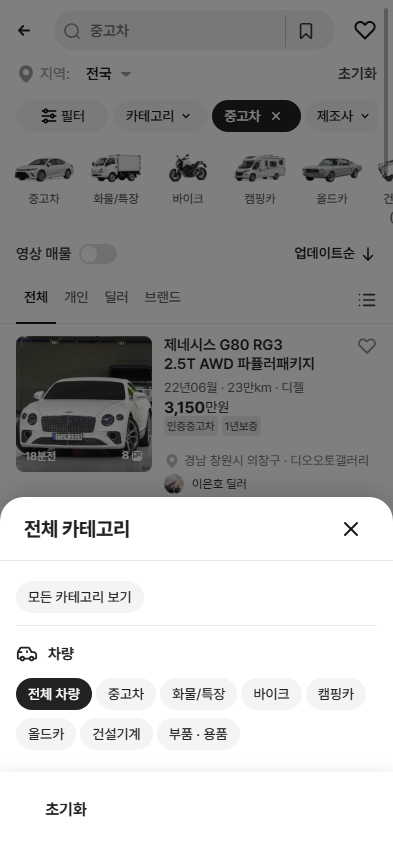
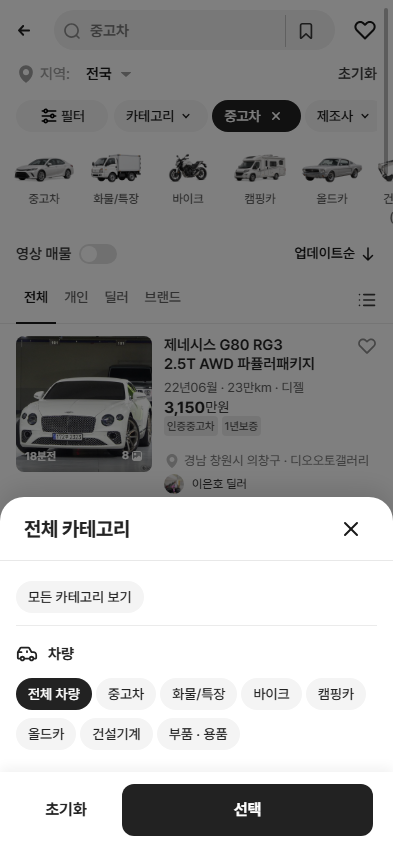
fix:add-category-sheet-confirm-action

Changed region(s): [[0.3053, 0.9155, 0.9466, 1.0]]

diff --git a/src/prototype/listing/index.tsx b/src/prototype/listing/index.tsx
@@ -532,6 +532,7 @@ function MarketplaceScreen() {
   // QF-091: 과쯔(개발 시안형) 모바일 전체 필터 화면과 그 안의 항목 시트
   const [bbmFullOpen, setBbmFullOpen] = useState(() => initialAutohomeMakerSheetPreview());
   const [bbmCategoryOpen, setBbmCategoryOpen] = useState(false);
+  const [bbmCategoryDraft, setBbmCategoryDraft] = useState(() => initialFilters.category);
   const [bbmFullItem, setBbmFullItem] = useState<BbmFilterItem | "카테고리" | "제조사 · 모델" | null>(() => initialAutohomeMakerSheetPreview() ? "제조사 · 모델" : null);
   const [bbmMakerDraft, setBbmMakerDraft] = useState<string | null>(() => initialAutohomeMakerSheetPreview() ? initialFilters.maker : null);
   const [bbmKeepSearch, setBbmKeepSearch] = useState(false);
@@ -1596,6 +1597,7 @@ function MarketplaceScreen() {
       label: "카테고리",
       active: false,
       onClick: () => {
+        setBbmCategoryDraft(category);
         setBbmCategoryOpen(true);
       },
     },
@@ -1995,8 +1997,8 @@ function MarketplaceScreen() {
         <BbmBottomGnb onNotify={setSearchToast} />
         {bbmMenu === "m-sort" ? <BbmSheet title="정렬" flush onClose={() => setBbmMenu(null)}><BbmPopOptions options={bbmSortOptions} selected={bbmSort} onSelect={chooseBbmSort} /></BbmSheet> : null}
         {bbmMenu === "m-view" ? <BbmSheet title="리스트 필터" flush onClose={() => setBbmMenu(null)}><BbmPopOptions options={bbmViewOptionsMobile} selected={bbmMobileView} onSelect={chooseBbmView} /></BbmSheet> : null}
-        {bbmCategoryOpen ? <BbmSheet variant="category" title="전체 카테고리" onClose={() => setBbmCategoryOpen(false)} footer={<div className="bbmf-category-footer"><button type="button" onClick={() => { chooseVehicleCategory("전체"); setBbmCategoryOpen(false); }}>초기화</button></div>}>
-          <BbmCategoryPicker selected={category} onViewAll={() => setSearchToast("전체 카테고리에서 차량 그룹을 보고 있어요.")} onChoose={(label) => { chooseVehicleCategory(label); setBbmCategoryOpen(false); }} />
+        {bbmCategoryOpen ? <BbmSheet variant="category" title="전체 카테고리" onClose={() => setBbmCategoryOpen(false)} footer={<div className="bbmf-category-footer"><button type="button" onClick={() => setBbmCategoryDraft("전체")}>초기화</button><button type="button" className="bbmf-category-confirm" onClick={() => { chooseVehicleCategory(bbmCategoryDraft); setBbmCategoryOpen(false); }}>선택</button></div>}>
+          <BbmCategoryPicker selected={bbmCategoryDraft} onViewAll={() => setSearchToast("전체 카테고리에서 차량 그룹을 보고 있어요.")} onChoose={setBbmCategoryDraft} />
         </BbmSheet> : null}
         {bbmFullOpen ? (
           <BbmFullFilter

diff --git a/src/prototype/filters/bbm-filter-parts.css b/src/prototype/filters/bbm-filter-parts.css
@@ -508,9 +508,11 @@
 .bbm-category-picker__pills { display:flex; flex-wrap:wrap; gap:8px 4px; margin-top:8px; }
 .bbm-category-picker__pills button { min-height:32px; padding:6px 12px; border:0; border-radius:9999px; background:#f4f4f4; color:#222; font-family:inherit; font-size:14px; font-weight:500; line-height:20px; cursor:pointer; }
 .bbm-category-picker__pills button.is-selected { background:#222; color:#fff; }
-.bbmf-category-footer { display:flex; flex:none; align-items:flex-start; height:80px; padding:12px 20px 16px; box-sizing:border-box; background:#fff; box-shadow:0 -4px 12px rgba(0,0,0,.06); }
+.bbmf-category-footer { display:flex; flex:none; align-items:flex-start; gap:10px; height:80px; padding:12px 20px 16px; box-sizing:border-box; background:#fff; box-shadow:0 -4px 12px rgba(0,0,0,.06); }
 .bbmf-category-footer button { width:92px; height:52px; padding:0; border:0; border-radius:12px; background:transparent; color:#222; font-family:inherit; font-size:16px; font-weight:700; line-height:22px; cursor:pointer; }
 .bbmf-category-footer button:hover { background:#f4f4f4; }
+.bbmf-category-footer .bbmf-category-confirm { flex:1 1 auto; width:auto; min-width:0; background:#222; color:#fff; }
+.bbmf-category-footer .bbmf-category-confirm:hover { background:#111; }
 /* 모바일 시트 체크 목록: 매물 수는 오른쪽 끝(12px 500 #9E9E9E) */
 .bbmf-sheet:not(.is-modal-body) .bbmf-check .bbmf-check-label { flex: 1; }
 .bbmf-sheet:not(.is-modal-body) .bbmf-check .bbmf-check-count { font-size: 12px; line-height: 16.8px; }

diff --git a/HANDOVER_assets_v19.md b/HANDOVER_assets_v19.md
@@ -1,0 +1,53 @@
+# HANDOVER_assets_v19
+
+## 1) 담당 범위
+
+- 카테고리 바텀시트에 확정 주행거리 시트와 같은 하단 선택 버튼 구조 적용
+
+## 2) 현재 진행 상태
+
+### 완료
+
+- 초기화 92×52px와 선택 나머지 폭×52px 구성
+- 카테고리 임시 선택 후 선택 버튼에서 목록 확정
+- 자동 수치 측정, 선택 전후 동작 점검, 빌드 통과
+
+### 진행 중
+
+- 없음
+
+### 미착수
+
+- 없음
+
+## 3) 결정된 사항과 그 이유
+
+- 카테고리를 누르는 즉시 시트를 닫지 않는다. 확정 바텀시트의 하단 선택 버튼을 실제 확정 동작으로 사용한다.
+- 초기화 역시 즉시 목록에 적용하지 않고 선택 버튼을 누를 때 확정한다.
+
+## 4) 미결 사항·막힌 점
+
+- 없음
+
+## 5) 산출물 목록
+
+- `src/prototype/listing/index.tsx`
+- `src/prototype/filters/bbm-filter-parts.css`
+- `scripts/audit-filter-bottomsheet-v02.mjs`
+- `reports/filter-bottomsheet-v02/`
+- `design-qa.md`
+
+## 6) 다른 코덱스와 주고받은 자료, 대기 중인 요청
+
+- 없음
+
+## 7) 검수 상태
+
+- 초기화 92×52px, 선택 251×52px, 간격 10px 측정 통과
+- 선택 전 URL 미변경, 선택 후 URL·목록 반영 및 시트 닫힘 확인
+- 빌드 통과
+
+## 8) 다음에 할 일
+
+1. 공개 주소에서 선택 버튼과 확정 동작을 재확인한다.
+

diff --git a/CHANGELOG_assets.md b/CHANGELOG_assets.md
@@ -18,3 +18,4 @@
 2026-10-03 / 코덱스-자료 / vehicle category photo slots / v02 / 초톳 PC 76×40·모바일 64×40 슬롯과 하단 기준선 적용, 전 차량 좌향 표시, 오토스카우트 저채도 실사 톤으로 표준 비례 포터 탑차 v03·포드 머스탱 v02 연결, 표시명 중고차·화물/특장·캠핑카로 정정 / 검수완료
 2026-10-03 / 코덱스-자료 / filter bottom sheet and search / v01 / 초톳 모바일을 직접 조작·측정해 카테고리 하단 시트와 포커스 추천·입력 중 관련어·지우기·뒤로 닫기 검색 흐름을 보배드림 모바일에 반영 / 검수완료
 2026-10-03 / 코덱스-자료 / category bottom sheet shell / v02 / 카테고리 바텀시트 외형만 확정 주행거리 시트 규격(24px 곡률·64px 헤더·20px 좌측 제목·44px 닫기·80px 하단 영역)으로 통일하고 선택·검색 동작은 유지 / 검수완료
+2026-10-03 / 코덱스-자료 / category bottom sheet actions / v03 / 누락된 선택 버튼을 추가하고 초기화 92×52px·선택 나머지 폭×52px·간격 10px로 주행거리 시트와 통일, 카테고리는 임시 선택 후 선택 버튼에서 확정하도록 수정 / 검수완료

diff --git a/design-qa.md b/design-qa.md
@@ -4,7 +4,8 @@
 
 - 기준: 확정된 주행거리 필터 바텀시트(`MileageFinalSheet`)
 - 적용: 모바일 카테고리 바텀시트의 외형만 변경
-- 유지: 카테고리 즉시 선택·초기화·닫기 동작과 통합 검색 동작
+- 동작: 카테고리는 시트 안에서 임시 선택하고 하단 `선택` 버튼으로 목록에 확정
+- 유지: 통합 검색 동작
 - 뷰포트: 393×852 CSS px, 1x
 
 ## 산출물
@@ -28,10 +29,16 @@
 | 본문 여백 | 20px 16px 22px | 동일 | passed |
 | 하단 영역 | 80px | 80px | passed |
 | 초기화 버튼 | 92×52px | 92×52px | passed |
+| 확정 버튼 | 나머지 폭×52px | 251×52px | passed |
 | 가로 넘침 | 없음 | 없음 | passed |
 | 콘솔 오류 | 없음 | 없음 | passed |
+
+## 동작 점검
+
+- 카테고리 칩 선택 전: URL과 목록 조건이 바뀌지 않고 시트가 열린 상태로 유지됨
+- `선택` 클릭 후: 선택한 카테고리가 URL과 목록에 반영되고 시트가 닫힘
+- `초기화` 클릭: 시트 안의 선택값만 전체 차량으로 되돌리고 `선택`에서 확정됨
 
 ## 최종 결과
 
 passed
-
